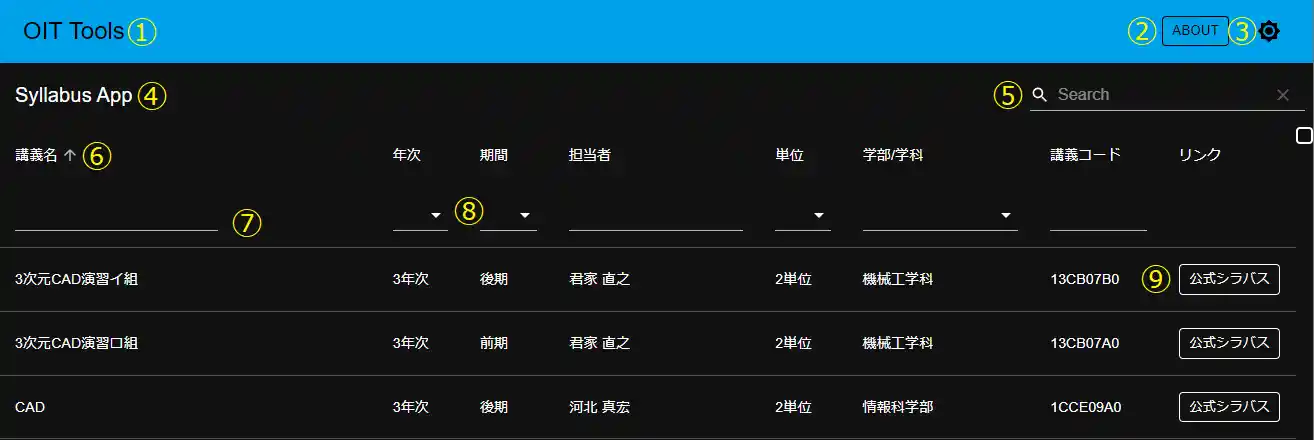
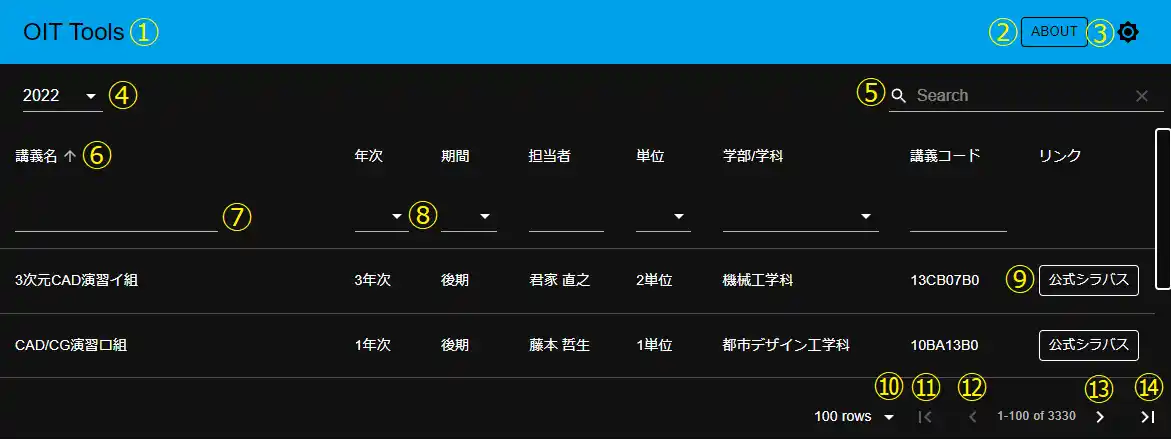
README改定

diff --git a/README.md b/README.md
@@ -24,6 +24,7 @@ Contributed by
 [aoken](https://github.com/aoken7)
 [Akirtn](https://github.com/Akirtn)
 [maru](https://github.com/GenichiMaruo)  
+[JIN](https://github.com/MatsuJin000)  
 
 本アプリケーションに記載されている情報の正確性、最新性、有用性等その他一切の事項について、いかなる保証をするものではありません  
 このような場合において、記載が不正確であったこと等により生じた、いかなる損害に関しても、一切の責任を負いかねます  
@@ -37,12 +38,17 @@ Contributed by
 ①OIT-Toolsホームページへのリンクになってます  
 ②使い方やプログラムの説明をしているこのページ  
 ③タップするとライトテーマ・ダークテーマを切り替えます  
-④タップするとテーブルの一番上の行に戻ります  
+④表示するシラバスの年度を指定できます  
 ⑤テーブル全体の要素を検索します  
 ⑥昇順降順のソートを切り替えます  
-⑦この下の列だけを検索します。各列の検索結果は重複して適応可能  
+⑦この下の列だけを検索します。各列の検索結果は重複して適応可能です  
 ⑧プルダウンメニューで絞り込みができます  
 ⑨公式シラバスの該当するページを表示します  
+⑩表示する行数を変更できます
+⑪一番最初のページに戻る
+⑫一つ前のページに戻る
+⑬一つ次のページに進む
+⑭一番最後のページに進む
 
 ※ホーム画面への追加方法は以下のリンクをご参照ください  
 [iOS・Androidの追加方法](https://support.bccks.jp/faq/pwa_2020/)
@@ -58,14 +64,17 @@ Contributed by
 ### Tool
 
 ・extract.py  
-時間割PDFを画像に変換し、画像から講義コードを抜き出した画像を生成し、その画像をOCRしたものをCSVに保存  
+2通りのアプローチをして講義コードを抽出している
+①時間割PDFを画像に変換し、画像から講義コードを抜き出した画像を生成し、その画像をOCRしたものをCSVに保存  
 OCRにはTesseractを利用しているため別途インストールが必要。学習データは
 [これ](https://github.com/tesseract-ocr/tessdata_best/blob/main/eng.traineddata)
 を利用している  
-・pdfconvert.py  
-時間割PDFからテキストを抽出して正規表現で講義コードのみをCSVに保存  
+②pdfminer.sixを使いPDFからテキストデータを抽出し、正規表現で英数字8桁のみを保存する処理を行う
+この2つを組み合わせることで精度を高めている  
+
 ・scraping.py  
 CSVから講義コードを読み込み、公式のシラバスからスクレイピングし、結果をJSONに保存  
+
 ・numbers.csv  
 スクレイピングの際にできる副産物のような物。今の所使用する予定はない  
 
@@ -76,12 +85,12 @@ Cloudflare Pagesにホスティング
 
 ・public  
 ライセンス表記ファイルやファビコンファイル等を格納している  
-・src  
-主にソースコードを格納している  
-・components  
+
+・/components  
 今回使用しているReactというライブラリはコンポーネント指向という考え方に基づいて開発されている。  
 ファイル名を見て分かる通り、Header.tsxはヘッダー、Table.tsxはテーブル（シラバスデータを表示しているもの）といった感じで部品ごとにソースコードが分けられている。  
 これのメリットは機能単位で分けられているためメンテナンスがしやすいことや違うプロジェクトでも使い回しが容易であることが挙げられる  
+
 ・202*.json  
 表示しているシラバスの全データが入ったJSONファイル。利用はご自由にどうぞ  
 
@@ -98,11 +107,16 @@ Cloudflare Pagesにホスティング
 ├── tool
 │   ├── .gitignore
 │   ├── extract.py
-│   ├── pdfconvert.py
 │   ├── requirements.txt
 │   ├── scraping.py
 │   ├── timetable
 │   │   ├── 2021
+│   │   │   ├── csv
+│   │   │   ├── num
+│   │   │   ├── numbers.csv
+│   │   │   ├── pdf
+│   │   │   └── png
+│   │   ├── 2022
 │   │   │   ├── csv
 │   │   │   ├── num
 │   │   │   ├── numbers.csv
@@ -124,10 +138,12 @@ Cloudflare Pagesにホスティング
     │   ├── App.tsx
     │   ├── components
     │   │   ├── About.tsx
+    │   │   ├── Bookmark.tsx
     │   │   ├── Header.tsx
     │   │   └── Table.tsx
     │   ├── data
-    │   │   └── 2021.json
+    │   │   ├── 2021.json
+    │   │   └── 2022.json
     │   ├── index.tsx
     │   ├── react-app-env.d.ts
     │   ├── service-worker.ts
